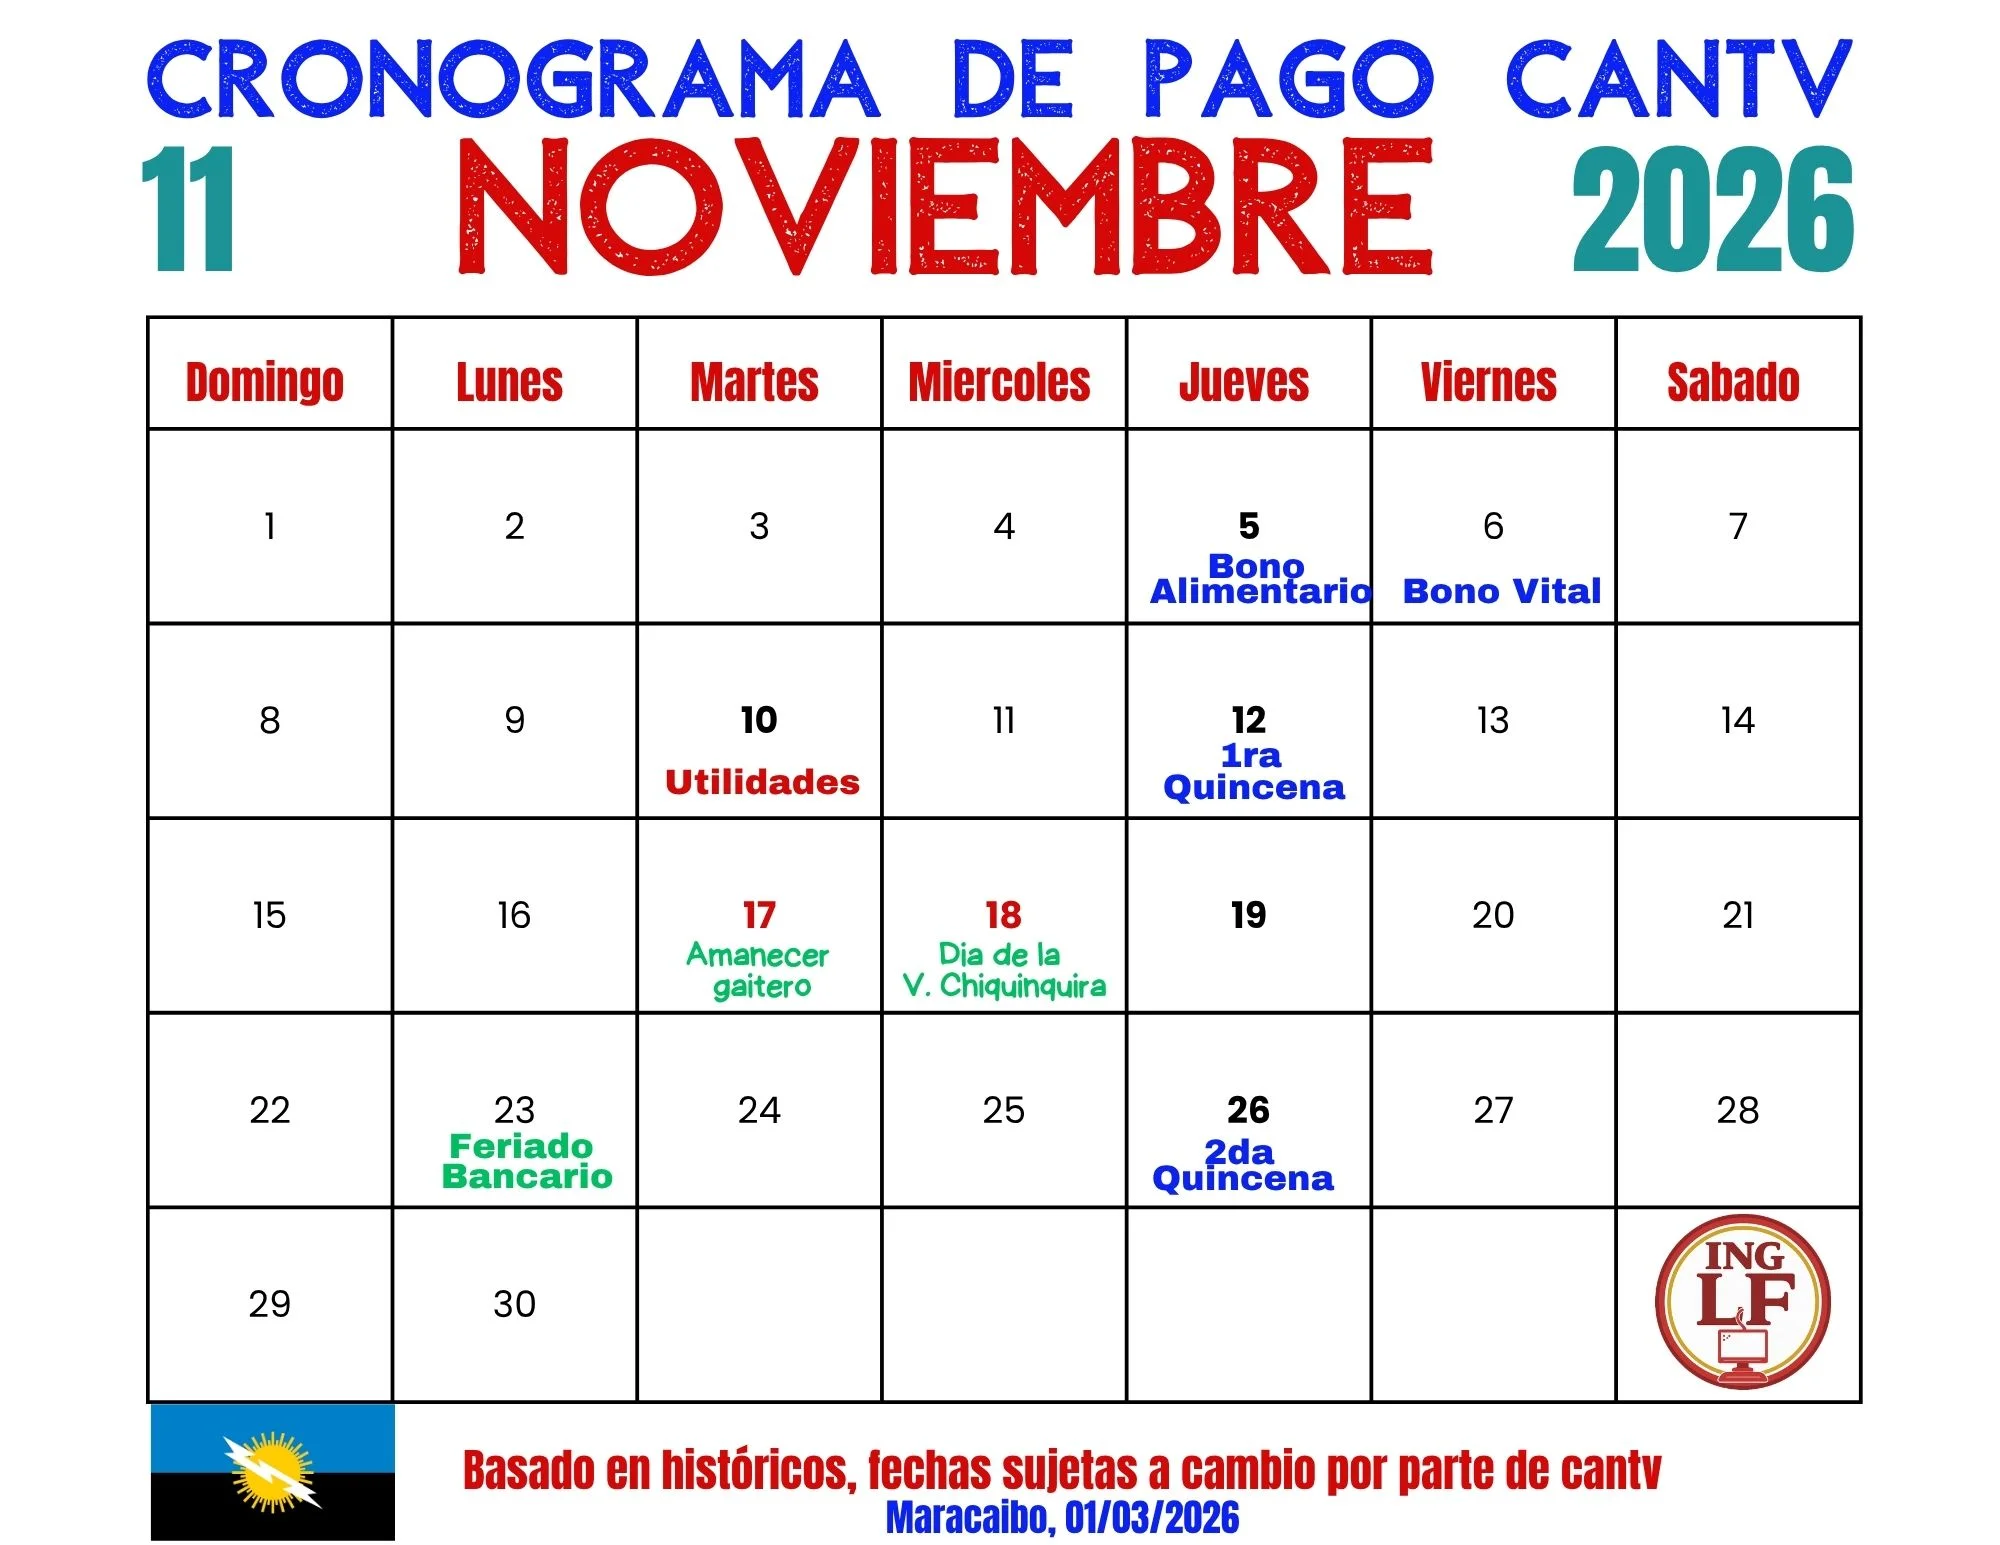
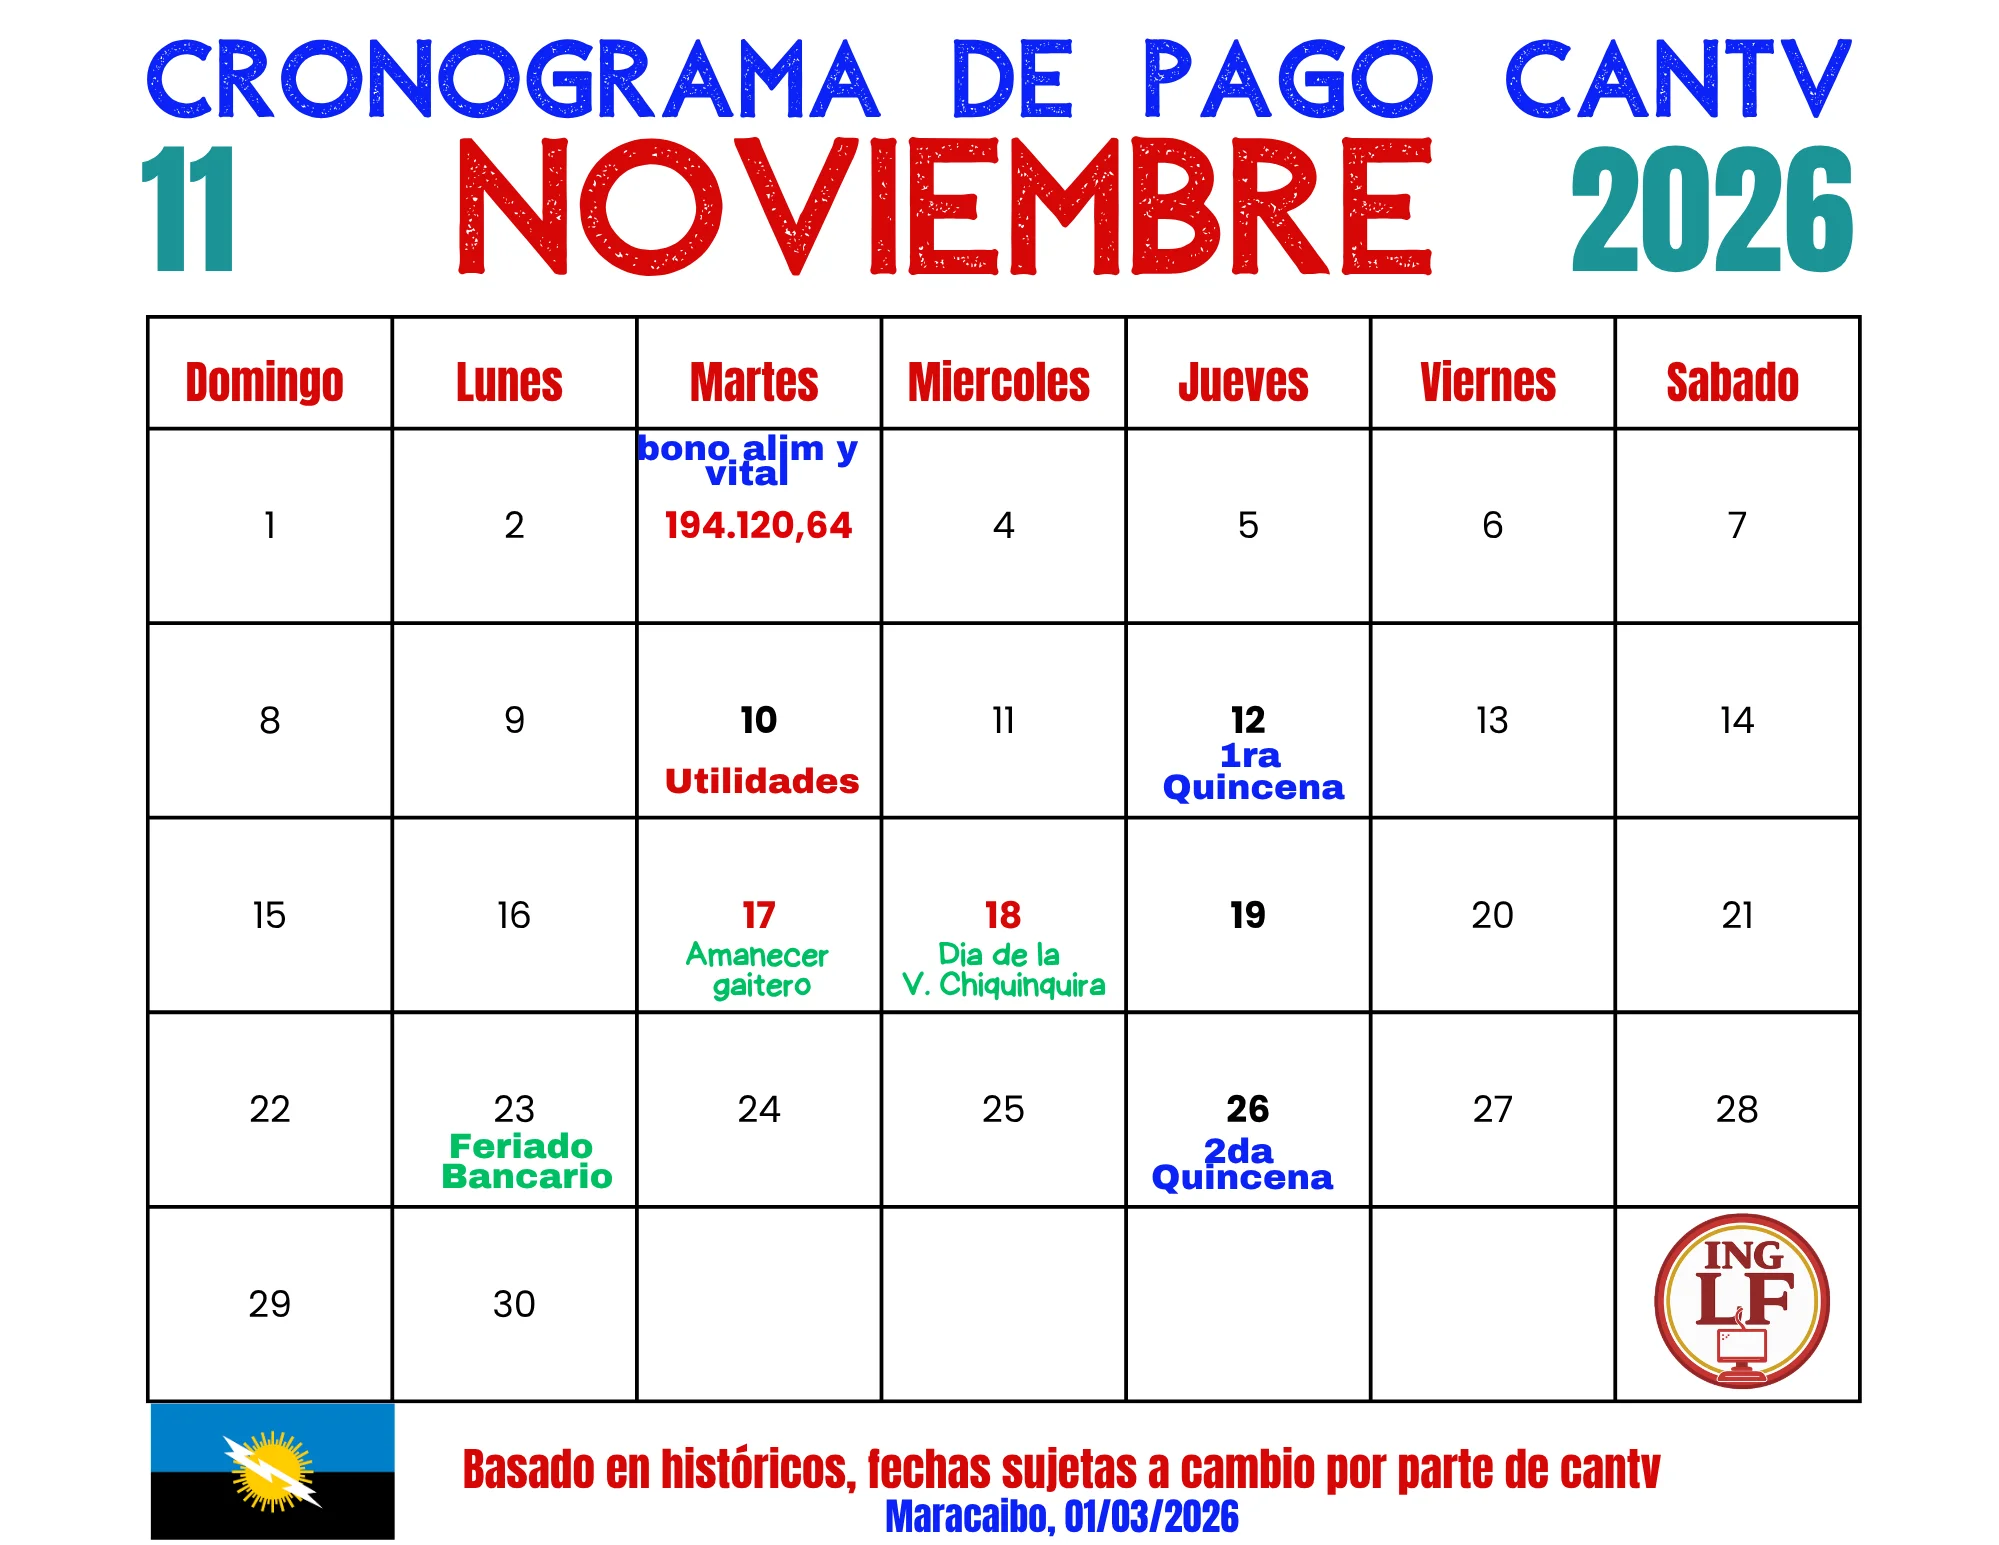
deploy-auto

diff --git a/app/nomina/page.tsx b/app/nomina/page.tsx
@@ -36,8 +36,8 @@ export default function NominaPage() {
               <Image
                 src="/11nov.webp"
                 alt="Cronograma de pago CANTV - Noviembre 2026"
-                width={800}
-                height={618}
+                width={1999}
+                height={1545}
                 className="rounded-md object-contain w-full h-auto max-w-[800px]"
               />
             </div>

diff --git a/progreso.md b/progreso.md
@@ -65,6 +65,20 @@ components/
 
 ---
 
+### Sesión: 03/11/2026
+
+#### 📅 Actualización de cronograma de Nómina Noviembre 2026
+- **Motivo:** El usuario entregó una nueva imagen PNG con el cronograma de pago de noviembre 2026 actualizado.
+- **Imagen recibida:** `public/nomina 03112026.png` (258 KB, 1999x1545 px).
+- **Proceso:**
+  - Se convirtió la imagen a formato WebP (calidad 85%) usando `sharp` → `public/11nov.webp` (146 KB).
+  - Se actualizaron las dimensiones en `app/nomina/page.tsx` (width: 1999, height: 1545) para reflejar la resolución real.
+- **Archivos modificados:**
+  - `public/11nov.webp` (reemplazado)
+  - `app/nomina/page.tsx` (dimensiones de imagen de noviembre)
+
+---
+
 ### Sesión: 01/11/2026
 
 #### 🎨 Ajustes visuales en Autorización de Retiro de Bolsa (`/documentos/autorizacion-bolsa`)
